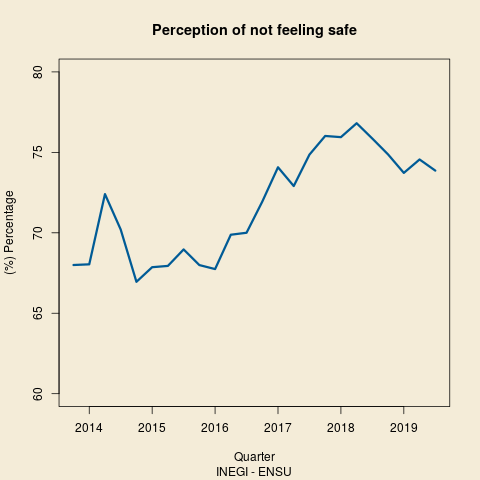
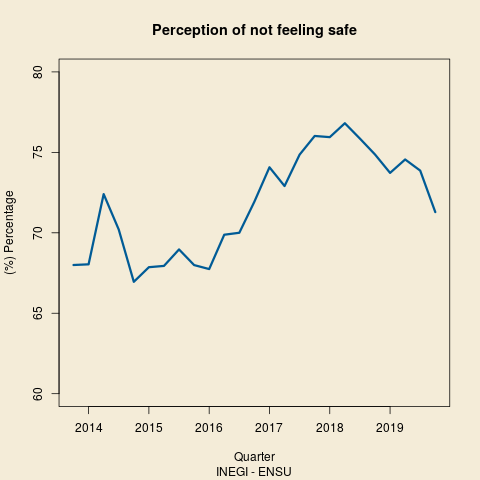
act 15 oct

diff --git a/StatsMx/myTSmx.html b/StatsMx/myTSmx.html
@@ -4,7 +4,7 @@
 <html xmlns="http://www.w3.org/1999/xhtml" lang="en" xml:lang="en">
 <head>
 <title>Some Mexican Stats</title>
-<!-- 2019-09-23 Mon 08:32 -->
+<!-- 2019-10-16 Wed 18:54 -->
 <meta  http-equiv="Content-Type" content="text/html;charset=utf-8" />
 <meta  name="generator" content="Org-mode" />
 <meta  name="author" content="daniel b" />
@@ -132,6 +132,16 @@ In <a href="https://www.inegi.org.mx/programas/ensu/default.html#">ENSU</a> one 
 </tr>
 </thead>
 <tbody>
+<tr>
+<td class="left">Septiembre 2019</td>
+<td class="right">34</td>
+<td class="right">65.8</td>
+<td class="right">23.9</td>
+<td class="right">75.9</td>
+<td class="right">28.5</td>
+<td class="right">71.3</td>
+</tr>
+
 <tr>
 <td class="left">Junio 2019</td>
 <td class="right">31.7</td>

diff --git a/StatsMx/myTSmx_ES.html b/StatsMx/myTSmx_ES.html
@@ -4,7 +4,7 @@
 <html xmlns="http://www.w3.org/1999/xhtml" lang="es" xml:lang="es">
 <head>
 <title>Algunas Estadísticas Mexicanas</title>
-<!-- 2019-09-23 Mon 08:45 -->
+<!-- 2019-10-16 Wed 23:26 -->
 <meta  http-equiv="Content-Type" content="text/html;charset=utf-8" />
 <meta  name="generator" content="Org-mode" />
 <meta  name="author" content="daniel b" />
@@ -136,6 +136,16 @@ la población de 18 años y más en las ciudades donde viven.
 </tr>
 </thead>
 <tbody>
+<tr>
+<td class="left">Septiembre 2019</td>
+<td class="right">34</td>
+<td class="right">65.8</td>
+<td class="right">23.9</td>
+<td class="right">75.9</td>
+<td class="right">28.5</td>
+<td class="right">71.3</td>
+</tr>
+
 <tr>
 <td class="left">Junio 2019</td>
 <td class="right">31.7</td>
